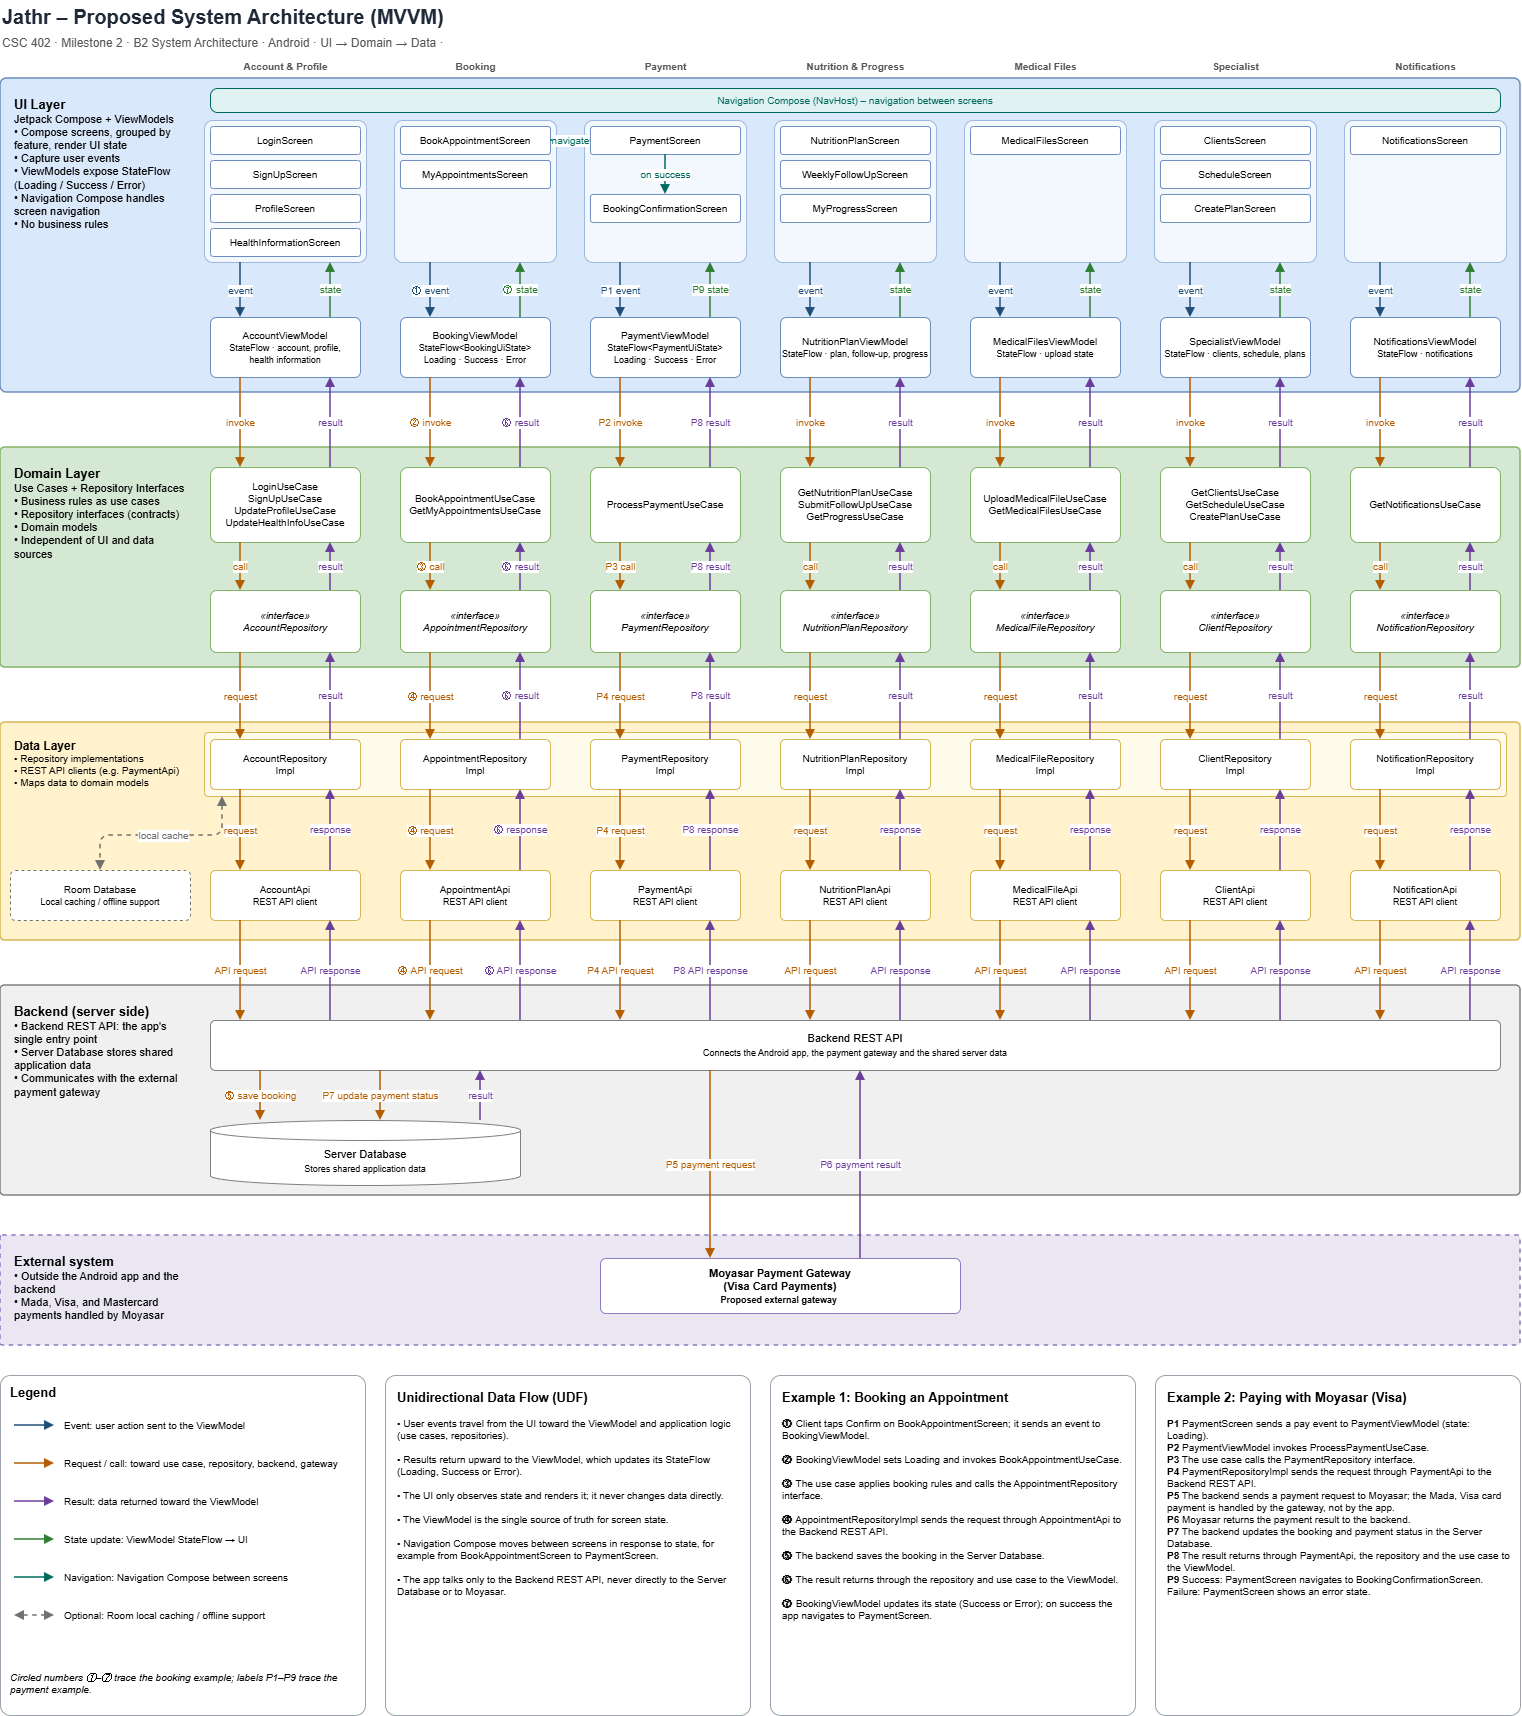
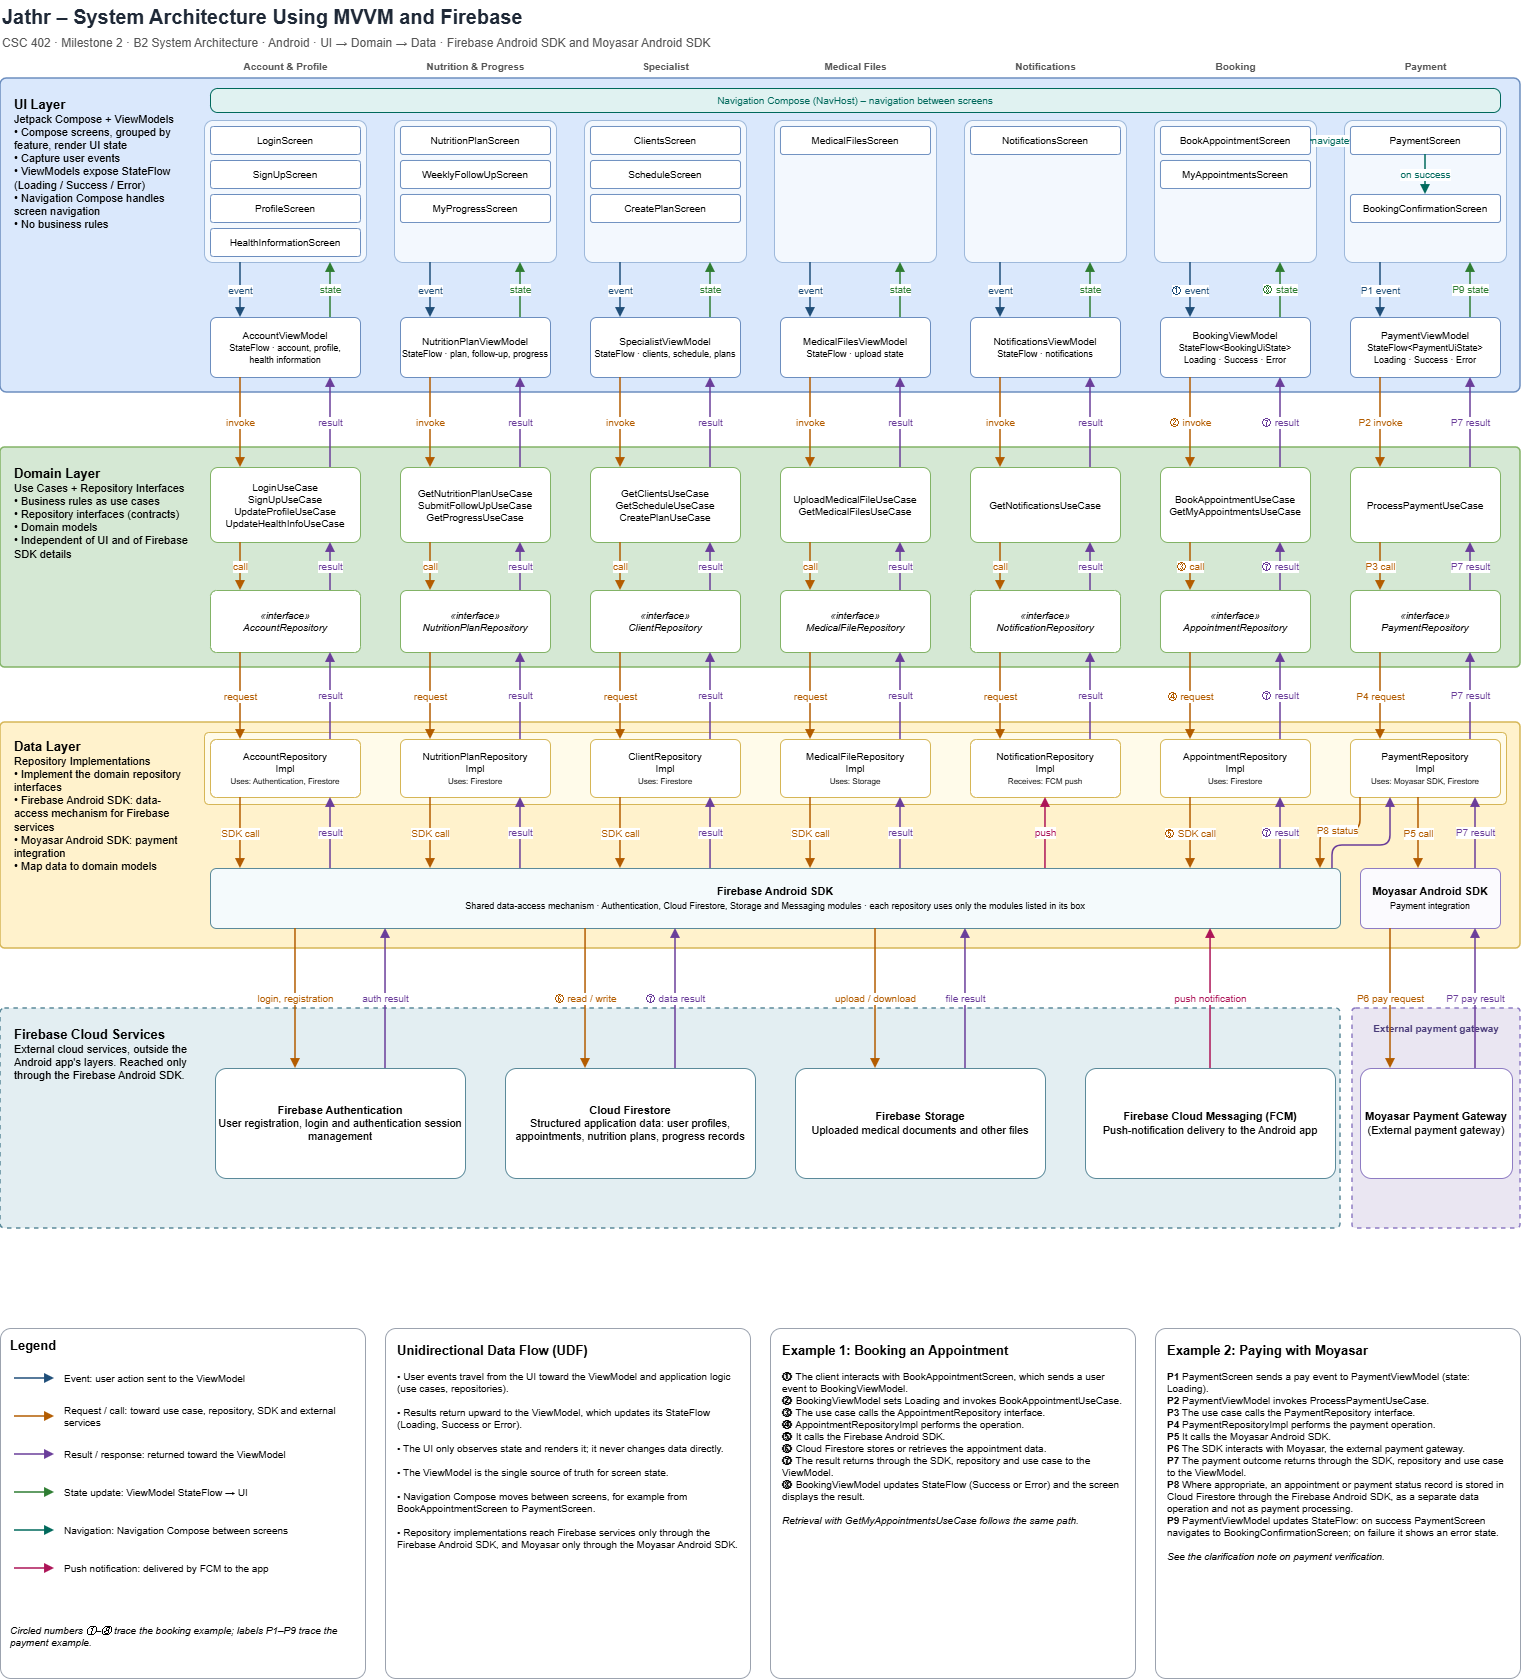
Update architecture

diff --git a/docs/architecture.md b/docs/architecture.md
@@ -1,4 +1,4 @@
-# Jathr — System Architecture
+# Jathr — System Architecture Using MVVM and Firebase
 
 **CSC 402 · Milestone 2 · Part B2 · Android (Kotlin, Jetpack Compose)**
 
@@ -6,18 +6,18 @@
 
 Jathr is an Arabic-first (RTL) Android application that brings nutrition specialists and their clients into one place: booking and paying for consultations, uploading medical files, following a personalized nutrition plan, filling in weekly follow-ups, and tracking progress.
 
-We organize the app with **MVVM on top of a Clean Architecture layering** (UI → Domain → Data). We chose this approach for four reasons:
+We organize the app with **MVVM on top of a Clean Architecture layering** (UI → Domain → Data). The Data layer reaches cloud services directly through the **Firebase Android SDK** (authentication, structured data, file storage and push messaging) and the **Moyasar Android SDK** (card payments). We chose this approach for four reasons:
 
-1. **Separation of concerns.** Screens only render state; business rules live in use cases; networking and storage live in repositories. Each part can be changed without breaking the others.
+1. **Separation of concerns.** Screens only render state; business rules live in use cases; Firebase and Moyasar details live in repository implementations. Each part can be changed without breaking the others.
 2. **Fits Jetpack Compose.** Compose is declarative: the UI is a function of state. A `ViewModel` exposing `StateFlow` maps directly onto this model.
 3. **Testability.** The Domain layer depends only on repository *interfaces*, so use cases and ViewModels can be tested with fake repositories, with no Android framework or network needed.
 4. **Team parallelism.** Because layers communicate through contracts (use cases and repository interfaces), team members can build the UI, the domain logic and the data sources at the same time.
 
 The architecture follows the **Unidirectional Data Flow (UDF)** principle: *events flow up, state flows down*.
 
-![Jathr Proposed System Architecture](architecture.png)
+![Jathr System Architecture Using MVVM and Firebase](architecture.png)
 
-*Figure 1 — Proposed system architecture (MVVM): UI → Domain → Data → Backend → External system.*
+*Figure 1 — System architecture (MVVM): UI → Domain → Data → Firebase Cloud Services and the external payment gateway.*
 
 ---
 
@@ -29,13 +29,13 @@ The system has five tiers. The first three live inside the Android app; the last
 |---|---|---|
 | UI Layer | Android app | Compose screens, ViewModels, navigation |
 | Domain Layer | Android app | Use cases, repository interfaces, domain models |
-| Data Layer | Android app | Repository implementations, REST API clients, optional Room cache |
-| Backend | Server | Backend REST API (single entry point) and Server Database |
-| External system | Third party | Moyasar payment gateway (mada, Visa, Mastercard) |
+| Data Layer | Android app | Repository implementations that use the Firebase Android SDK and the Moyasar Android SDK |
+| Firebase Cloud Services | Cloud (outside the app) | Authentication, Cloud Firestore, Storage, Cloud Messaging (FCM). Reached only through the Firebase Android SDK |
+| External payment gateway | Third party | Moyasar Payment Gateway (card payments). Reached only through the Moyasar Android SDK |
 
-The app is organized by **feature columns**, and each feature has its own screens, ViewModel, use cases, repository and API client:
+The app is organized by **feature columns**, and each feature has its own screens, ViewModel, use cases and repository:
 
-**Account & Profile · Booking · Payment · Nutrition & Progress · Medical Files · Specialist · Notifications**
+**Account & Profile · Nutrition & Progress · Specialist · Medical Files · Notifications · Booking · Payment**
 
 ---
 
@@ -51,30 +51,42 @@ The app is organized by **feature columns**, and each feature has its own screen
 - Observe the ViewModel's `StateFlow` and render the current state (Loading / Success / Error).
 - Handle navigation between screens through the Navigation Compose `NavHost`.
 
-**Golden rule:** *The UI layer contains no business logic and never accesses the database or the API directly.*
+**Golden rule:** *The UI layer contains no business logic and never accesses Firebase, Moyasar or any data source directly.*
 
 ### 3.2 Domain Layer
 
 **Technology:** Pure Kotlin (use cases, repository interfaces, domain models).
 
 **Responsibilities**
-- Hold the application's **business rules** as use cases (e.g., booking rules, payment processing).
+- Hold the application's **business rules** as use cases (e.g., booking, payment processing).
 - Define **repository interfaces** (contracts) that describe what data the app needs, without saying how it is obtained.
 - Define domain models used across the app.
 
-**Golden rule:** *The Domain layer is independent of the UI and of any concrete data source.* It does not know about Compose, Retrofit or Room.
+**Golden rule:** *The Domain layer is independent of the UI and of Firebase SDK details.* It does not know about Compose, Firebase or Moyasar.
 
 ### 3.3 Data Layer
 
-**Technology:** Retrofit + OkHttp (REST clients), Room (optional local cache), repository implementations.
+**Technology:** Repository implementations, Firebase Android SDK, Moyasar Android SDK.
 
 **Responsibilities**
 - Implement the repository interfaces from the Domain layer.
-- Call the **Backend REST API** through typed API clients (e.g., `AppointmentApi`, `PaymentApi`).
-- Map API/database data into domain models.
-- Optionally cache selected data locally in **Room** for offline support.
+- Use the **Firebase Android SDK** as the shared data-access mechanism (Authentication, Cloud Firestore, Storage and Messaging). Each repository uses only the modules it needs.
+- Use the **Moyasar Android SDK** for payment integration.
+- Map Firebase and Moyasar data into domain models.
 
-**Golden rule:** *The Data layer contains no UI logic and exposes data only through repository interfaces.* The app talks only to the Backend REST API and never directly to the Server Database or to Moyasar.
+**Golden rule:** *The Data layer contains no UI logic and exposes data only through repository interfaces.* Firebase services are reached only through the Firebase Android SDK, and Moyasar only through the Moyasar Android SDK.
+
+**Which repository uses what**
+
+| Repository implementation | Uses |
+|---|---|
+| `AccountRepositoryImpl` | Firebase Authentication, Cloud Firestore |
+| `NutritionPlanRepositoryImpl` | Cloud Firestore |
+| `ClientRepositoryImpl` | Cloud Firestore |
+| `MedicalFileRepositoryImpl` | Firebase Storage |
+| `NotificationRepositoryImpl` | Receives FCM push notifications |
+| `AppointmentRepositoryImpl` | Cloud Firestore |
+| `PaymentRepositoryImpl` | Moyasar Android SDK, Cloud Firestore |
 
 ---
 
@@ -82,14 +94,14 @@ The app is organized by **feature columns**, and each feature has its own screen
 
 | Layer | Responsibility | Key classes |
 |---|---|---|
-| **UI** | Displays screens, collects input, observes state, manages navigation | `LoginScreen`, `SignUpScreen`, `ProfileScreen`, `HealthInformationScreen`, `BookAppointmentScreen`, `MyAppointmentsScreen`, `PaymentScreen`, `BookingConfirmationScreen`, `NutritionPlanScreen`, `WeeklyFollowUpScreen`, `MyProgressScreen`, `MedicalFilesScreen`, `ClientsScreen`, `ScheduleScreen`, `CreatePlanScreen`, `NotificationsScreen`, `NavHost` |
-| **UI (state holders)** | Hold `StateFlow<UiState>` per feature, receive events, call use cases | `AccountViewModel`, `BookingViewModel`, `PaymentViewModel`, `NutritionPlanViewModel`, `MedicalFilesViewModel`, `SpecialistViewModel`, `NotificationsViewModel` |
-| **Domain (use cases)** | Business rules, one action per use case | `LoginUseCase`, `SignUpUseCase`, `UpdateProfileUseCase`, `UpdateHealthInfoUseCase`, `BookAppointmentUseCase`, `GetMyAppointmentsUseCase`, `ProcessPaymentUseCase`, `GetNutritionPlanUseCase`, `SubmitFollowUpUseCase`, `GetProgressUseCase`, `UploadMedicalFileUseCase`, `GetMedicalFilesUseCase`, `GetClientsUseCase`, `GetScheduleUseCase`, `CreatePlanUseCase`, `GetNotificationsUseCase` |
-| **Domain (contracts)** | Repository interfaces | `AccountRepository`, `AppointmentRepository`, `PaymentRepository`, `NutritionPlanRepository`, `MedicalFileRepository`, `ClientRepository`, `NotificationRepository` |
-| **Data (repositories)** | Implement the contracts, map data, coordinate API and cache | `AccountRepositoryImpl`, `AppointmentRepositoryImpl`, `PaymentRepositoryImpl`, `NutritionPlanRepositoryImpl`, `MedicalFileRepositoryImpl`, `ClientRepositoryImpl`, `NotificationRepositoryImpl` |
-| **Data (sources)** | REST clients and local cache | `AccountApi`, `AppointmentApi`, `PaymentApi`, `NutritionPlanApi`, `MedicalFileApi`, `ClientApi`, `NotificationApi`, `RoomDatabase` |
-| **Backend** | Single entry point for the app; stores shared data; talks to the payment gateway | Backend REST API, Server Database |
-| **External** | Card payments (mada, Visa, Mastercard) | Moyasar Payment Gateway |
+| **UI** | Displays screens, collects input, observes state, manages navigation | `LoginScreen`, `SignUpScreen`, `ProfileScreen`, `HealthInformationScreen`, `NutritionPlanScreen`, `WeeklyFollowUpScreen`, `MyProgressScreen`, `ClientsScreen`, `ScheduleScreen`, `CreatePlanScreen`, `MedicalFilesScreen`, `NotificationsScreen`, `BookAppointmentScreen`, `MyAppointmentsScreen`, `PaymentScreen`, `BookingConfirmationScreen`, `NavHost` |
+| **UI (state holders)** | Hold `StateFlow<UiState>` per feature, receive events, call use cases | `AccountViewModel`, `NutritionPlanViewModel`, `SpecialistViewModel`, `MedicalFilesViewModel`, `NotificationsViewModel`, `BookingViewModel`, `PaymentViewModel` |
+| **Domain (use cases)** | Business rules, one action per use case | `LoginUseCase`, `SignUpUseCase`, `UpdateProfileUseCase`, `UpdateHealthInfoUseCase`, `GetNutritionPlanUseCase`, `SubmitFollowUpUseCase`, `GetProgressUseCase`, `GetClientsUseCase`, `GetScheduleUseCase`, `CreatePlanUseCase`, `UploadMedicalFileUseCase`, `GetMedicalFilesUseCase`, `GetNotificationsUseCase`, `BookAppointmentUseCase`, `GetMyAppointmentsUseCase`, `ProcessPaymentUseCase` |
+| **Domain (contracts)** | Repository interfaces | `AccountRepository`, `NutritionPlanRepository`, `ClientRepository`, `MedicalFileRepository`, `NotificationRepository`, `AppointmentRepository`, `PaymentRepository` |
+| **Data (repositories)** | Implement the contracts, map data, call the SDKs | `AccountRepositoryImpl`, `NutritionPlanRepositoryImpl`, `ClientRepositoryImpl`, `MedicalFileRepositoryImpl`, `NotificationRepositoryImpl`, `AppointmentRepositoryImpl`, `PaymentRepositoryImpl` |
+| **Data (SDKs)** | Shared data-access mechanisms | Firebase Android SDK (Authentication, Cloud Firestore, Storage, Messaging), Moyasar Android SDK |
+| **Firebase Cloud Services** | External cloud services, reached only through the Firebase Android SDK | Firebase Authentication, Cloud Firestore, Firebase Storage, Firebase Cloud Messaging (FCM) |
+| **External** | Card payments | Moyasar Payment Gateway |
 
 ---
 
@@ -97,8 +109,8 @@ The app is organized by **feature columns**, and each feature has its own screen
 
 In Jathr, data moves in one direction around a loop:
 
-- **Events travel up.** User actions (taps, text input, selections) are sent from the Compose screen to the ViewModel, then to use cases, repositories, the API clients and finally the backend.
-- **Results travel back up the same chain** as data returned from the backend to the repository, use case and ViewModel.
+- **Events travel up.** User actions (taps, text input, selections) are sent from the Compose screen to the ViewModel, then to use cases, repositories and the SDKs.
+- **Results travel back** along the same chain: from Firebase or Moyasar through the SDK, the repository and the use case to the ViewModel.
 - **State flows down.** The ViewModel writes the result into its `StateFlow`. The UI only *observes* this state and re-renders.
 
 Key principles:
@@ -107,7 +119,7 @@ Key principles:
 2. The **ViewModel is the single source of truth** for each screen's state.
 3. State is exposed as an immutable `UiState` (`Loading`, `Success`, `Error`).
 4. Navigation Compose moves between screens in response to state (e.g., after a successful booking, navigate from `BookAppointmentScreen` to `PaymentScreen`).
-5. The app talks only to the Backend REST API, never directly to the Server Database or Moyasar.
+5. Repository implementations reach Firebase services only through the Firebase Android SDK, and Moyasar only through the Moyasar Android SDK.
 
 ### Example: Book Appointment screen
 
@@ -166,17 +178,20 @@ class BookingViewModel @Inject constructor(
 
 ## 6. Walk-through: Booking an Appointment
 
-The numbers below match the circled numbers (①–⑦) in the architecture diagram.
+The numbers below match the circled numbers (①–⑧) in the architecture diagram.
 
 | Step | Layer | What happens |
 |---|---|---|
-| **①** | UI | The client selects an available time slot and taps **Confirm** in `BookAppointmentScreen`. The screen sends a `ConfirmBooking` event to `BookingViewModel`. |
+| **①** | UI | The client selects an available time slot and taps **Confirm** in `BookAppointmentScreen`, which sends an event to `BookingViewModel`. |
 | **②** | UI | `BookingViewModel` sets its `StateFlow` to `Loading` and invokes `BookAppointmentUseCase`. |
-| **③** | Domain | `BookAppointmentUseCase` applies the booking rules (e.g., a valid slot and package are selected) and calls the `AppointmentRepository` interface. |
-| **④** | Data | `AppointmentRepositoryImpl` sends the request through `AppointmentApi` (Retrofit) to the Backend REST API. |
-| **⑤** | Backend | The backend validates the request, **saves the booking in the Server Database**, and returns a success or error response. |
-| **⑥** | Data → Domain → UI | The response is mapped to a domain model and returned through `AppointmentRepositoryImpl` and the use case to `BookingViewModel`. |
-| **⑦** | UI | `BookingViewModel` updates its state to `Success` or `Error`. On success, Navigation Compose navigates to `PaymentScreen`; on error, the screen shows a message with a retry option. |
+| **③** | Domain | The use case calls the `AppointmentRepository` interface. |
+| **④** | Data | `AppointmentRepositoryImpl` performs the operation. |
+| **⑤** | Data | It calls the **Firebase Android SDK**. |
+| **⑥** | Firebase | **Cloud Firestore** stores or retrieves the appointment data. |
+| **⑦** | Data → Domain → UI | The result returns through the SDK, the repository and the use case to `BookingViewModel`. |
+| **⑧** | UI | `BookingViewModel` updates its `StateFlow` (`Success` or `Error`) and the screen displays the result. On success, Navigation Compose navigates to `PaymentScreen`. |
+
+Retrieving appointments with `GetMyAppointmentsUseCase` follows the same path.
 
 ---
 
@@ -189,19 +204,19 @@ The labels below match **P1–P9** in the diagram.
 | **P1** | UI | `PaymentScreen` sends a *pay* event to `PaymentViewModel` (state: `Loading`). |
 | **P2** | UI → Domain | `PaymentViewModel` invokes `ProcessPaymentUseCase`. |
 | **P3** | Domain | The use case calls the `PaymentRepository` interface. |
-| **P4** | Data | `PaymentRepositoryImpl` sends the request through `PaymentApi` to the Backend REST API. |
-| **P5** | Backend | The backend sends a payment request to **Moyasar** (mada, Visa and Mastercard are handled by the gateway, not by the app). |
-| **P6** | External | Moyasar returns the payment result to the backend. |
-| **P7** | Backend | The backend updates the booking and payment status in the Server Database. |
-| **P8** | Data → Domain → UI | The result returns through `PaymentApi`, the repository and the use case to `PaymentViewModel`. |
-| **P9** | UI | On **success**, `PaymentScreen` navigates to `BookingConfirmationScreen`. On **failure**, `PaymentScreen` shows the payment-failed error state with a retry option. |
+| **P4** | Data | `PaymentRepositoryImpl` performs the payment operation. |
+| **P5** | Data | It calls the **Moyasar Android SDK**. |
+| **P6** | SDK → External | The SDK interacts with **Moyasar**, the external payment gateway (mada, Visa and Mastercard are handled by the gateway). |
+| **P7** | Data → Domain → UI | The payment outcome returns through the SDK, the repository and the use case to `PaymentViewModel`. |
+| **P8** | Data → Firebase | Where appropriate, an appointment or payment status record is stored in **Cloud Firestore** through the Firebase Android SDK. This is a separate data operation, not payment processing. |
+| **P9** | UI | `PaymentViewModel` updates its `StateFlow`. On **success**, `PaymentScreen` navigates to `BookingConfirmationScreen`. On **failure**, `PaymentScreen` shows the error state with a retry option. |
 
 ---
 
 ## 8. Design Decisions Summary
 
-- **Single backend entry point.** The app calls only the Backend REST API. This keeps credentials (database, payment gateway) off the device and gives one place to enforce security and business validation.
-- **Gateway handled server-side.** Card processing is delegated to Moyasar through the backend, so the app never handles raw payment confirmation logic.
-- **Optional offline support.** Room caches selected data. Repositories decide whether to read from cache or network, so the UI and Domain layers are unaffected.
+- **Firebase through one SDK.** Authentication, structured data (Cloud Firestore), file storage (Firebase Storage) and push notifications (FCM) are all reached through the Firebase Android SDK, so the app has no REST API clients of its own and no local database.
+- **Payments through a dedicated SDK.** Card payments go through the Moyasar Android SDK, and Firebase is used only for the separate record of appointment or payment status.
 - **One ViewModel per feature, one use case per action.** This keeps classes small, focused and easy to test.
+- **The Domain layer hides the services.** Because the UI and Domain layers only know repository interfaces, the data sources can change without touching screens or business rules.
 - **Navigation is state-driven.** Screen transitions (e.g., booking → payment → confirmation) respond to ViewModel state rather than being triggered from data-layer code.
